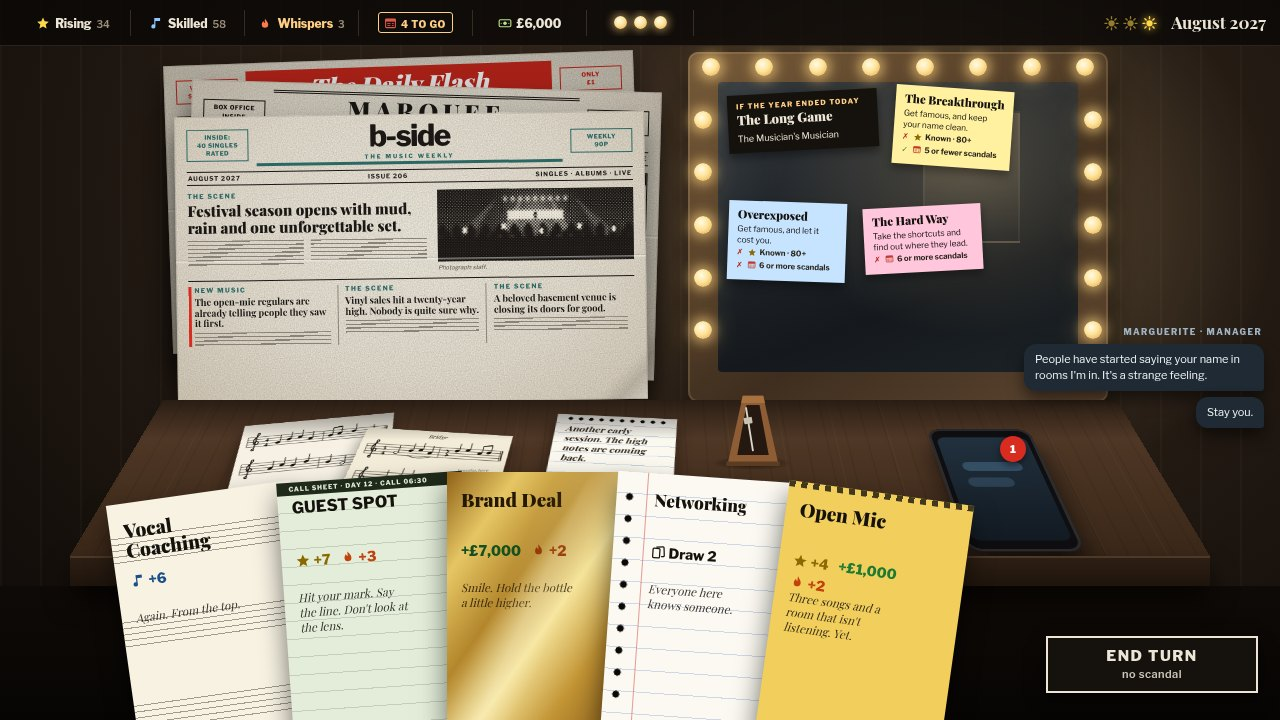
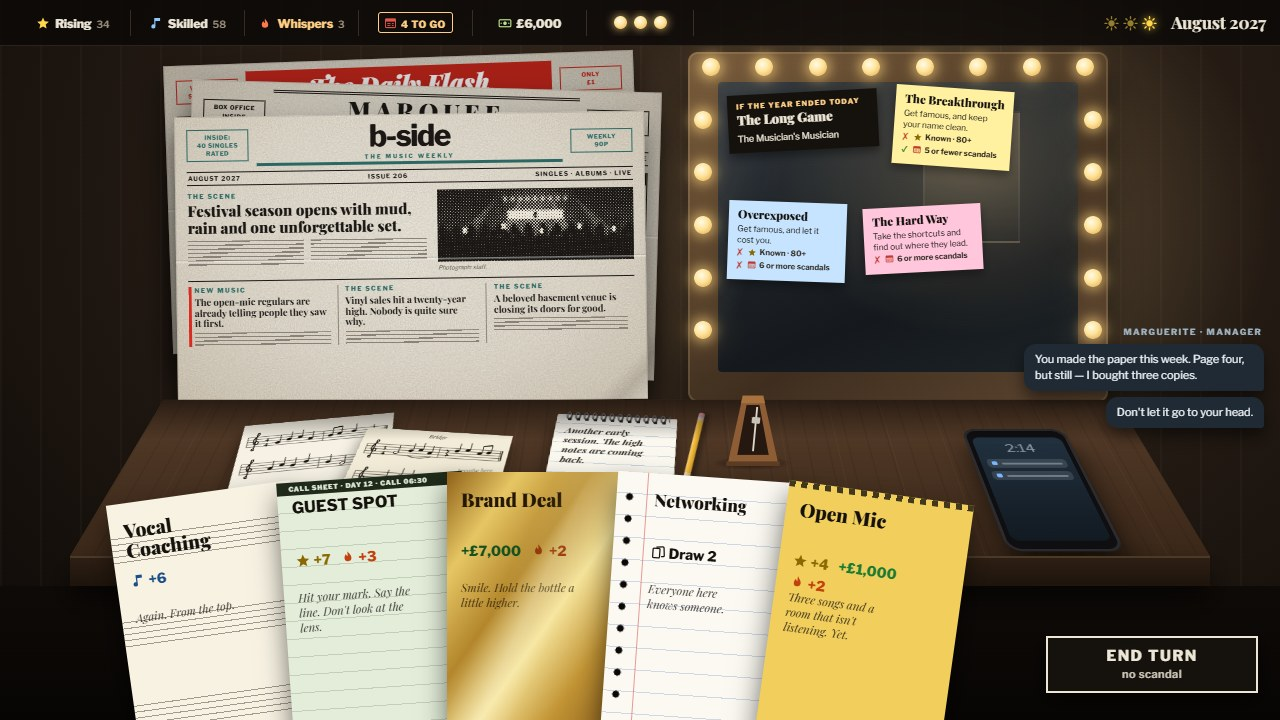
V1b Part 0: author rulings, current docs and WebKit tooling
Import the separately recorded addendum, mark release reviews and make pending press retractable. Reproduce the balance baseline and refresh v18 references.

diff --git a/check/browser.ts b/check/browser.ts
@@ -8,12 +8,13 @@
 // Firefox gets the phone's viewport only. A browser that stops answering fails the check after a while, naming
 // the command, instead of hanging it.
 
+import { webkit } from 'playwright';
 import { spawn, spawnSync, type ChildProcess } from 'node:child_process';
 import { existsSync, mkdtempSync, readFileSync, rmSync, writeFileSync } from 'node:fs';
 import { tmpdir } from 'node:os';
 import { join } from 'node:path';
 
-export type BrowserName = 'chrome' | 'firefox';
+export type BrowserName = 'chrome' | 'firefox' | 'webkit';
 
 export interface Page {
   readonly name: BrowserName;
@@ -34,6 +35,12 @@ export interface Page {
 }
 
 const sleep = (ms: number) => new Promise((r) => setTimeout(r, ms));
+async function screenshotFile(path: string, bytes: Uint8Array): Promise<void> {
+  for (let attempt = 0; ; attempt++) {
+    try { writeFileSync(path, bytes); return; }
+    catch (err) { if (attempt >= 5) throw err; await sleep(200); }
+  }
+}
 
 /** How long a command may go unanswered: a page script may run a whole audit, anything else a moment. */
 const ANSWER_MS = 120_000;
@@ -69,6 +76,7 @@ const FIREFOXES = [
 
 /** The browser's executable, or null when it is not installed. */
 export function find(name: BrowserName): string | null {
+  if (name === 'webkit') return existsSync(webkit.executablePath()) ? webkit.executablePath() : null;
   return (name === 'chrome' ? CHROMES : FIREFOXES).find((p): p is string => !!p && existsSync(p)) ?? null;
 }
 
@@ -76,10 +84,10 @@ export function find(name: BrowserName): string | null {
  * The browsers a check runs in, from `--browsers=chrome,firefox` (default `fallback`): each one installed,
  * a missing one skipped with a note. Exits when none is.
  */
-export function browsersFromArgs(argv: readonly string[], fallback = 'chrome,firefox'): BrowserName[] {
+export function browsersFromArgs(argv: readonly string[], fallback = 'chrome,firefox,webkit'): BrowserName[] {
   const asked = (argv.find((a) => a.startsWith('--browsers='))?.split('=')[1] ?? fallback).split(',').filter(Boolean) as BrowserName[];
   const have = asked.filter((b) => {
-    if (b !== 'chrome' && b !== 'firefox') throw new Error(`unknown browser ${b}`);
+    if (b !== 'chrome' && b !== 'firefox' && b !== 'webkit') throw new Error(`unknown browser ${b}`);
     if (find(b)) return true;
     console.log(`(${b} is not installed here: skipped; ${b === 'chrome' ? 'CHROME_PATH' : 'FIREFOX_PATH'} points to one)`);
     return false;
@@ -100,7 +108,31 @@ export function sizesFromArgs(argv: readonly string[], fallback = '1280x720,800x
 }
 
 export async function launch(name: BrowserName, size: { width: number; height: number; mobile?: boolean }): Promise<Page> {
-  return name === 'chrome' ? launchChrome(size) : launchFirefox(size);
+  return name === 'webkit' ? launchWebKit(size) : name === 'chrome' ? launchChrome(size) : launchFirefox(size);
+}
+
+/** Only WebKit comes from Playwright; the installed Chrome and Firefox keep their existing drivers. */
+async function launchWebKit(size: { width: number; height: number; mobile?: boolean }): Promise<Page> {
+  const browser = await webkit.launch({ headless: true });
+  const context = await browser.newContext({ viewport: size, hasTouch: true, isMobile: size.mobile ?? false });
+  const page = await context.newPage();
+  page.setDefaultTimeout(ANSWER_MS);
+  return {
+    name: 'webkit',
+    async evaluate<T>(expression: string): Promise<T> { return within(page.evaluate(expression) as Promise<T>, SCRIPT_MS, 'WebKit script'); },
+    async navigate(url, settle = 2500) { await page.goto(url); await sleep(settle); },
+    async screenshot(path) { await page.screenshot({ path }); },
+    async move(x, y) { await page.mouse.move(x, y); },
+    async click(x, y) { await page.mouse.click(x, y); },
+    async press(x, y, ms) {
+      // Playwright exposes trusted taps, but no held WebKit touch. Never substitute synthetic input silently.
+      if (ms > 100) throw new Error('WebKit driver: trusted long-press unsupported by Playwright Touchscreen');
+      await page.touchscreen.tap(x, y);
+    },
+    async key(name) { await page.keyboard.press(name); },
+    async throttle(rate) { if (rate !== 1) throw new Error('WebKit CPU throttling unavailable'); },
+    async close() { await browser.close(); },
+  };
 }
 
 // ---------------------------------------------------------------------------
@@ -159,7 +191,7 @@ async function launchChrome({ width, height, mobile = false }: { width: number; 
     },
     async screenshot(path) {
       const r = await send('Page.captureScreenshot', { format: path.endsWith('.jpg') ? 'jpeg' : 'png', ...(path.endsWith('.jpg') ? { quality: 88 } : {}) });
-      writeFileSync(path, Buffer.from(String(r.result?.data ?? ''), 'base64'));
+      await screenshotFile(path, Buffer.from(String(r.result?.data ?? ''), 'base64'));
     },
     async move(x, y) {
       await mouse('mouseMoved', x, y);
@@ -185,6 +217,8 @@ async function launchChrome({ width, height, mobile = false }: { width: number; 
     },
     async close() {
       try {
+        // Edge may relaunch itself: its launcher PID is not the browser PID.
+        await within(send('Browser.close'), 3000, 'closing Chrome').catch(() => {});
         ws.close();
       } catch {
         // already closed

diff --git a/ui/desk/model.ts b/ui/desk/model.ts
@@ -116,6 +116,8 @@ export interface MirrorModel {
 }
 
 export interface ItemModel {
+  readonly story: string;
+  readonly stars: string | null;
   readonly kind: PageItem['kind'];
   readonly kicker: string;
   readonly text: string;
@@ -265,7 +267,7 @@ export function deskIssue(s: GameState, steps: readonly PlayedStep[]): { readonl
   if (s.phase !== 'play') return { issue: issueNow(steps), history: steps };
   const after = reduce(s, { type: 'END_TURN' });
   const history = [...steps, { id: -1, action: { type: 'END_TURN' as const }, before: s, after, events: after.events }];
-  return { issue: frontPages(history).at(-1) ?? null, history };
+  return { issue: frontPages(history).slice(-1)[0] ?? null, history };
 }
 
 export function deskModel({ state: s, steps, lines }: DeskInput): DeskModel {
@@ -413,16 +415,22 @@ function item(s: GameState, paper: string, x: PageItem, isLead: boolean, history
   const scandal = isScandalLine(x);
   const mine = x.kind === 'player' || x.kind === 'filler' || x.kind === 'spillover';
   const brief = x.slot === 'brief';
-  const kicker = brief || x.kind === 'spillover' ? t('paper.kicker.brief') : scandal ? t('paper.kicker.scandal') : mine || x.kind === 'rival' ? t(`paper.${paper}.kicker.player`) : t(`paper.${paper}.kicker.world`);
+  const coming = x.line !== null && x.line.step >= realSteps;
+  const review = paper === c.press?.route.loud.music && x.kind === 'player' && x.line?.kind === 'play' && getCard(c, x.line.cardId)?.release;
+  // A review remembers the craft at the release, rather than changing with later practice.
+  const craft = x.line ? statTiers(history[x.line.step]?.after ?? s).craft : null;
+  const kicker = coming ? t('paper.kicker.coming') : brief || x.kind === 'spillover' ? t('paper.kicker.brief') : scandal ? t('paper.kicker.scandal') : mine || x.kind === 'rival' ? t(`paper.${paper}.kicker.player`) : t(`paper.${paper}.kicker.world`);
   return {
     kind: x.kind,
+    story: x.line ? `${x.line.step}:${x.line.event}` : `${x.kind}:${pageItemText(c, x)}`,
+    stars: review && craft ? t(`paper.review.${craft.index}`) : null,
     kicker,
     text: pageItemText(c, x),
     dek: isLead ? dek(s, x, history) : null,
     mark: mine ? 'you' : x.kind === 'rival' ? 'rival' : null,
     red: scandal,
     brief,
-    coming: x.line !== null && x.line.step >= realSteps,
+    coming,
   };
 }
 
@@ -477,7 +485,7 @@ function right(s: GameState, fp: FrontPage, lead: PageItem | null, issue: MonthP
 /** The notebook's page: the player's latest quiet line — private work, never in the press. */
 function notebook(steps: readonly PlayedStep[]): string | null {
   const quiet = pressLines(steps).filter((l) => l.paper === null && l.kind === 'play');
-  const last = quiet.at(-1);
+  const last = quiet.slice(-1)[0];
   const first = steps[0]?.after;
   return last && first ? lineText(first.content, last, last.cardId, last.subjectKey) : null;
 }

diff --git a/tools/reference-shots.ts b/tools/reference-shots.ts
@@ -1,0 +1,34 @@
+// Re-capture v18's desk references at its exact logical size, using the shipped OFL fonts offline.
+import { readFileSync, readdirSync } from 'node:fs';
+import { join } from 'node:path';
+import { createServer } from 'vite';
+import { launch } from '../check/browser.ts';
+import { ROOT } from '../check/desk-replay.ts';
+const server = await createServer({ root: ROOT, logLevel: 'error', server: { port: 5197, strictPort: false } });
+await server.listen();
+const page = await launch('chrome', { width: 1280, height: 720 });
+const shots: [string, string, string, string, string][] = [
+  ['01','unknown','calm','music','spring'], ['02','rising','calm','music','summer'],
+  ['03','famous','calm','music','summer'], ['04','famous','calm','screen','autumn'],
+  ['05','rising','calm','celebrity','winter'], ['07','unknown','crisis','music','summer'],
+  ['08','unknown','crisis','music','summer'], ['09','famous','crisis','music','winter'],
+  ['10','famous','calm','screen','autumn'], ['11','famous','calm','screen','autumn'],
+];
+try {
+  await page.navigate(`${server.resolvedUrls!.local[0]}docs/design/visual/mockups/vanity.html`);
+  const fonts = readFileSync(join(ROOT,'ui/desk/fonts.css'),'utf8').replaceAll('../fonts/', '/ui/fonts/');
+  await page.evaluate(`(() => { document.querySelectorAll('link').forEach(x=>x.remove()); const s=document.createElement('style'); s.textContent=${JSON.stringify(fonts + '\n.ctl{display:none!important} #stage{transform:none!important} .viewport{height:720px!important}')}; document.head.appendChild(s); })()`);
+  await page.evaluate('document.fonts.ready.then(()=>true)');
+  for (const [id,f,c,l,s] of shots) {
+    await page.evaluate(`Object.assign(st,${JSON.stringify({f,c,l,s,view:null})});render()`);
+    if (id === '08') await page.evaluate(`st.view='flash';renderPapers()`);
+    if (id === '10') {
+      const point = await page.evaluate<[number,number]>(`(()=>{const r=document.querySelector('.cell[data-tip="craft"]').getBoundingClientRect();return [r.x+r.width/2,r.y+r.height/2]})()`);
+      await page.move(...point);
+    } else await page.move(640,300);
+    if (id === '11') await page.evaluate(`(()=>{const b=document.querySelectorAll('.bub:not(.who)');b[0]?.click();document.querySelector('.rx-bar button')?.click();b[b.length-1]?.click()})()`);
+    await new Promise(r=>setTimeout(r,600));
+    const file = readdirSync(join(ROOT,'docs/design/visual/shots')).find(n=>n.startsWith(id+'-'))!;
+    await page.screenshot(join(ROOT,'docs/design/visual/shots',file)); console.log(file);
+  }
+} finally { await page.close(); await server.close(); }

diff --git a/check/press-contract.ts b/check/press-contract.ts
@@ -1,0 +1,37 @@
+// V1b: a pending story is retractable. Exercise real cooling plays, including hands with end-turn penalties.
+import assert from 'node:assert/strict';
+import { createInitialState, legalActions, reduce, seedRng, cursor, nextInt, readLines, establishedLanes, type Content } from '../core/index.ts';
+import { loadRawContent } from '../validate/load.ts';
+import { deskModel } from '../ui/desk/model.ts';
+import type { PlayedStep } from '../ui/queue.ts';
+import { t } from '../ui/i18n.ts';
+const content = loadRawContent() as Content;
+let cooled = 0, labelled = 0;
+for (let seed = 1; seed <= 60; seed++) {
+  let s = createInitialState(seed, content, { strict: true });
+  const rng = cursor(seedRng(seed));
+  const history: PlayedStep[] = [{id: 1,action: null,before: null,after:s,events:s.events}];
+  for (let n = 0; s.phase !== 'ended' && n < 200; n++) {
+    const model = deskModel({state:s, steps:history, lines:{...readLines(history),lane:establishedLanes(history).slice(-1)[0] ?? null}});
+    const pending = model.papers?.pages.flatMap(p=>[p.lead,...p.row]).filter(p=>p?.coming) ?? [];
+    for (const p of pending) { assert.equal(p!.kicker,t('paper.kicker.coming')); labelled++; }
+    const actions = legalActions(s);
+    if (pending.length) for (const action of actions) {
+      if (action.type !== 'PLAY_CARD') continue;
+      const after = reduce(s,action);
+      if (after.resources.heat >= s.resources.heat) continue;
+      const end = reduce(after,{type:'END_TURN'});
+      // Copying scandals can still print even after cooling: only demand a blank pending column when no scandal is added.
+      if (end.events.some(e=>e.type === 'addCard' && after.content.cards[e.cardId]?.kind === 'scandal')) continue;
+      const steps = [...history,{id:history.length+1,action,before:s,after,events:after.events}];
+      const m = deskModel({state:after,steps,lines:{...readLines(steps),lane:establishedLanes(steps).slice(-1)[0] ?? null}});
+      assert.equal(m.papers?.pages.flatMap(p=>[p.lead,...p.row]).filter(p=>p?.coming).length,0);
+      cooled++;
+    }
+    const pick = nextInt(rng, actions.length);
+    const action=actions[pick]!; const after=reduce(s,action);
+    history.push({id:history.length+1,action,before:s,after,events:after.events}); s=after;
+  }
+}
+assert.ok(cooled > 0 && labelled > 0, 'the pending/cooling fixtures must be exercised');
+console.log(`press contract: ${labelled} pending labels; ${cooled} real cooling plays remove pending stories; PASS`);

diff --git a/docs/handoff/v1a-compare/index.html b/docs/handoff/v1a-compare/index.html
@@ -25,7 +25,7 @@
 <body>
 <header>
   <h1>Round V1a — the desk against the visual reference</h1>
-  <p>Left: the approved mockup's shot (<code>docs/design/visual/shots</code>, v16 and earlier). Right: the game, production build, 1280×720, in the state nearest the shot — lane, fame, calm or frenzy, season — found by playing the sim's personas and replayed through the real UI.</p>
+  <p>Left: the approved mockup's shot (<code>docs/design/visual/shots</code>, v18, recaptured in V1b). Right: the game, Vite development build, 1280×720, in the state nearest the shot — lane, fame, calm or frenzy, season — found by playing the sim's personas and replayed through the real UI.</p>
   <p>Everywhere: the mockup's text and numbers are samples, the game's are real; shots 01–11 predate v17, so they still show the phone's number badge the README has since removed; the film titles in the Marquee's box office are the mockup's own sample list, shown as <code>TODO(prose)</code> until the author approves them; the stat bar carries a Deck button after the actions. Shots 12–14 are screens of round V2, still plain in the game.</p>
 </header>
 
@@ -66,7 +66,7 @@
 </section>
 <section>
   <h2>09 · music · famous · frenzy · winter</h2>
-  <p class="note">Game: music lane, Famous, February 2028. /core's lead-paper rule keeps the B-Side in front when the player also leads it that month; the reference puts the tabloid on the desk — a question for the author (docs/decisions.md, Part D).</p>
+  <p class="note">Game: music lane, Famous, February 2028. V1b follows the author's ruling: a Known-or-higher scandal lead wins ties and puts the tabloid on the desk.</p>
   <div class="pair"><figure><img src="../../design/visual/shots/09-music-famous-frenzy-winter.jpg" alt="Reference 09"><figcaption>Reference</figcaption></figure><figure><img src="09.jpg" alt="Game 09"><figcaption>Game</figcaption></figure></div>
 </section>
 <section>

diff --git a/core/press.ts b/core/press.ts
@@ -391,8 +391,8 @@ function composeYear(history: readonly HistoryStep[], inProgress: boolean): { mo
   });
   let current: MonthPress | null = null;
   if (inProgress) {
-    const now = history.at(-1)?.after ?? first;
-    current = now.phase === 'gate' || now.phase === 'ended' ? (months.at(-1) ?? null) : compose(now.turn, now.act, now.resources.hype, lanes.at(-1) ?? null, history.length - 1);
+    const now = history.slice(-1)[0]?.after ?? first;
+    current = now.phase === 'gate' || now.phase === 'ended' ? (months.slice(-1)[0] ?? null) : compose(now.turn, now.act, now.resources.hype, lanes.slice(-1)[0] ?? null, history.length - 1);
   }
   return { months, current };
 }
@@ -418,7 +418,7 @@ export function boxOffice(c: ContentIndex, seed: number, turn: number, tier: num
   const n = ring.length;
   const rows: BoxOfficeRow[] = Array.from({ length: Math.min(bo.rows, n) }, (_, i) => ({
     titleKey: ring[(((turn - 1 - i) % n) + n) % n] as string,
-    gross: (bo.grosses[i] ?? bo.grosses.at(-1) ?? 0) + (bo.jitter > 0 ? deriveSeed(seed, hashId(`boxoffice:${turn}:${i}`)) % bo.jitter : 0),
+    gross: (bo.grosses[i] ?? bo.grosses.slice(-1)[0] ?? 0) + (bo.jitter > 0 ? deriveSeed(seed, hashId(`boxoffice:${turn}:${i}`)) % bo.jitter : 0),
     fresh: i === 0,
     player: false,
   }));
@@ -480,6 +480,9 @@ function leadPaper(c: ContentIndex, pages: readonly FrontPage[], lane: string | 
   const preferred = lanePaper(c, lane) ?? pages[0]?.paper ?? '';
   if (best === Infinity) return preferred;
   const tied = ranks.filter((r) => r.rank === best).map((r) => r.paper);
+  // A scandal earns a lead only from Known up. Once it does, it wins a tie too (V1b).
+  const scandalLead = pages.find((p) => tied.includes(p.paper) && p.items.some((x) => x.slot === 'lead' && x.line?.kind === 'scandal'));
+  if (scandalLead) return scandalLead.paper;
   return tied.includes(preferred) ? preferred : (tied[0] ?? preferred);
 }
 

diff --git a/check/preview.ts b/check/preview.ts
@@ -641,6 +641,11 @@ function checkDesk(s: GameState, seed: number, history: readonly PlayedStep[], l
       if (it.text !== pageItemText(c, x) || it.kind !== x.kind || it.red !== scandal || it.brief !== (x.slot === 'brief') || it.mark !== (mine ? 'you' : x.kind === 'rival' ? 'rival' : null)) bad(`${fp.paper} story ${i}: ${JSON.stringify(it)} against ${x.kind} ${x.slot} ${x.key}`);
       if (it.coming !== (x.line !== null && x.line.step >= history.length) || (it.coming && s.phase !== 'play')) bad(`${fp.paper} story ${i}: coming ${it.coming} in the ${s.phase} phase`);
       if (!it.kicker || it.kicker.startsWith('⟦')) bad(`${fp.paper} story ${i}: kicker "${it.kicker}"`);
+      if (it.coming && it.kicker !== t('paper.kicker.coming')) bad('pending scandal lacks Going to press');
+      const released = fp.paper === c.press?.route.loud.music && x.kind === 'player' && x.line?.kind === 'play' && getCard(c, x.line.cardId)?.release;
+      const reviewTier = x.line ? statTiers(withEnd[x.line.step]?.after ?? s).craft : null;
+      const expectedStars = released && reviewTier ? t(`paper.review.${reviewTier.index}`) : null;
+      if (it.stars !== expectedStars) bad(`${fp.paper}: stars on a non-release, or wrong release-time craft tier`);
     });
     const lead = fp.items[0];
     const photographed = lead !== undefined && (lead.kind === 'rival' || (lead.kind === 'player' && lead.line?.kind === 'scandal') || ((lead.kind === 'player' || lead.kind === 'filler' || lead.kind === 'spillover') && issue.fameTier < (bo?.player.fromTier ?? Infinity)));

diff --git a/ui/desk/Papers.tsx b/ui/desk/Papers.tsx
@@ -78,8 +78,8 @@ const Paper = memo(function Paper({ page, pos, forward, label }: { page: PageMod
       </div>
       <div className="ld">
         {lead ? (
-          <div className={itemClass(lead, 'lead')} data-kind={lead.kind} data-coming={lead.coming ? '1' : undefined}>
-            <div className="kk">{lead.kicker}</div>
+          <div className={itemClass(lead, 'lead')} data-story={lead.story} data-kind={lead.kind} data-coming={lead.coming ? '1' : undefined}>
+            <div className="kk">{lead.kicker}{lead.stars && <span className="review"> {lead.stars}</span>}</div>
             <div className={ph(lead.text, 'hd')}>{lead.text}</div>
             {lead.dek && <div className="dk">{lead.dek}</div>}
             <div className="txt">
@@ -94,8 +94,8 @@ const Paper = memo(function Paper({ page, pos, forward, label }: { page: PageMod
       </div>
       <div className="rw">
         {page.row.map((x, i) => (
-          <div key={i} className={itemClass(x, 'it')} data-kind={x.kind} data-coming={x.coming ? '1' : undefined}>
-            <div className="kk">{x.kicker}</div>
+          <div key={i} className={itemClass(x, 'it')} data-story={x.story} data-kind={x.kind} data-coming={x.coming ? '1' : undefined}>
+            <div className="kk">{x.kicker}{x.stars && <span className="review"> {x.stars}</span>}</div>
             <div className={ph(x.text, 'h')}>{x.text}</div>
             <div className="t2" />
           </div>

diff --git a/core/content.ts b/core/content.ts
@@ -105,13 +105,15 @@ export const EFFECT_FIELDS: { readonly [K in EffectOp]: readonly string[] } = {
 export const EFFECT_OPS = Object.keys(EFFECT_FIELDS) as readonly EffectOp[];
 
 export function isEffectOp(op: unknown): op is EffectOp {
-  return typeof op === 'string' && Object.hasOwn(EFFECT_FIELDS, op);
+  return typeof op === 'string' && Object.prototype.hasOwnProperty.call(EFFECT_FIELDS, op);
 }
 
 // ---------------------------------------------------------------------------
 // Content pieces
 
 export interface CardDef {
+  /** A public release, eligible for the music paper's craft review (V1b). */
+  readonly release?: boolean;
   readonly id: string;
   readonly kind: CardKind;
   /** Slots spent to play it. */
@@ -702,11 +704,11 @@ export function indexContent(content: Content): ContentIndex {
 }
 
 export function getCard(index: ContentIndex, id: string): CardDef | undefined {
-  return Object.hasOwn(index.cards, id) ? index.cards[id] : undefined;
+  return Object.prototype.hasOwnProperty.call(index.cards, id) ? index.cards[id] : undefined;
 }
 
 export function getGate(index: ContentIndex, id: string): GateDef | undefined {
-  return Object.hasOwn(index.gates, id) ? index.gates[id] : undefined;
+  return Object.prototype.hasOwnProperty.call(index.gates, id) ? index.gates[id] : undefined;
 }
 
 export const getMajor = (index: ContentIndex, id: string): MajorDef | undefined => index.majors.find((m) => m.id === id);

diff --git a/validate/validate.ts b/validate/validate.ts
@@ -94,6 +94,7 @@ const ID = /^[a-z][a-z0-9_]*$/;
 const q = (v: unknown) => JSON.stringify(v);
 
 const CARD_FIELDS = [
+  'release',
   'id', 'kind', 'cost', 'nameKey', 'textKey', 'flavorKey', 'face', 'headlineKeys', 'register', 'inHandKeys',
   'playable', 'tags', 'actMin', 'requires', 'effects', 'onDraw', 'onEndOfTurn', 'lane',
 ];
@@ -620,6 +621,7 @@ function checkCards(v: Ctx, raw: unknown): Obj[] {
       if (c.textKey !== undefined) v.key(c.textKey, `${where}.textKey`);
       if (c.flavorKey !== undefined) v.key(c.flavorKey, `${where}.flavorKey`);
     }
+    if (c.release !== undefined && typeof c.release !== 'boolean') v.error('schema', `${where}.release`, 'must be a boolean');
     if (c.playable !== undefined && typeof c.playable !== 'boolean') v.error('schema', `${where}.playable`, 'must be a boolean');
     if (c.tags !== undefined && (!Array.isArray(c.tags) || !c.tags.every(isStr))) {
       v.error('schema', `${where}.tags`, 'must be an array of strings');

diff --git a/ui/i18n.ts b/ui/i18n.ts
@@ -19,11 +19,11 @@ export function t(key: string, vars: Readonly<Record<string, string | number>> =
     }
     return `⟦${key}⟧`;
   }
-  return s.replace(/\{(\w+)\}/g, (slot, name: string) => (Object.hasOwn(vars, name) ? String(vars[name]) : slot));
+  return s.replace(/\{(\w+)\}/g, (slot, name: string) => (Object.prototype.hasOwnProperty.call(vars, name) ? String(vars[name]) : slot));
 }
 
 /** Whether content has written a key at all: for the desk's optional words (a masthead's subtitle). */
-export const has = (key: string): boolean => Object.hasOwn(strings, key);
+export const has = (key: string): boolean => Object.prototype.hasOwnProperty.call(strings, key);
 
 const plural = new Intl.PluralRules('en');
 

diff --git a/core/lanes.ts b/core/lanes.ts
@@ -17,7 +17,7 @@ export function lanePlays(s: LaneSubject): Readonly<Record<string, number>> {
   const plays: Record<string, number> = Object.fromEntries(lanes.map((lane) => [lane, 0]));
   for (const [cardId, n] of Object.entries(s.careerPlays)) {
     const lane = getCard(s.content, cardId)?.lane;
-    if (lane !== undefined && Object.hasOwn(plays, lane)) plays[lane] = (plays[lane] ?? 0) + n;
+    if (lane !== undefined && Object.prototype.hasOwnProperty.call(plays, lane)) plays[lane] = (plays[lane] ?? 0) + n;
   }
   return plays;
 }
